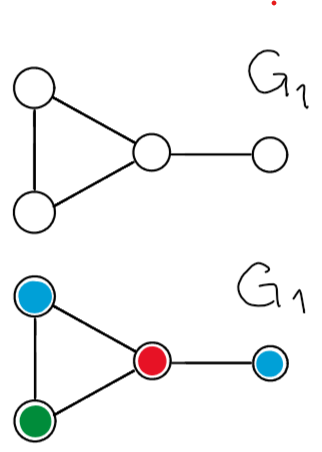
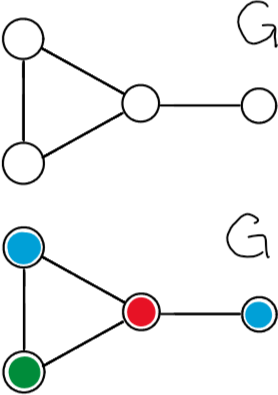
tweak figure and remove unnec subscr
Two changes:

1. There's no reason this needs a subscripted 1, when there are no other graphs in play - so I changed it to just a G.
2. I tweaked the figure by cropping it to its actual content (removing that red dot as well) and making its background uniformly transparent. This also allowed it to be scaled better by TeX - TeX doesn't see the margins in the image file itself when giving it a margin, so preferably figures should have zero margins in the image file, so TeX can assign the right margins itself.

diff --git a/lecture12.tex b/lecture12.tex
@@ -57,9 +57,9 @@ We study the notion of a vertex colouring of a graph, and prove some results abo
 We already saw the notion of colouring a graph in an earlier lecture, but we proved nothing about it other than some very basic bounds. Let us restate the definition, and then move on to proving some more interesting things.
 \begin{marginfigure}
     \centering
-    \includegraphics[width=0.9\textwidth]{graphics/L12_colouring/k-coloring.png}
+    \includegraphics[width=0.75\textwidth]{graphics/L12_colouring/k-coloring.png}
     \caption{
-    Example of an undirected graph $G_1$ that is three-coloured. In this case the chromatic number of $G_1$ is $\chi(G_1)=3$ since we can find a three-colouring of $G_1$ but not a two-colouring.
+    Example of an undirected graph $G$ that is three-coloured. In this case the chromatic number of $G$ is $\chi(G)=3$ since we can find a three-colouring of $G$ but not a two-colouring.
     }
 \end{marginfigure}
 \begin{definition}
